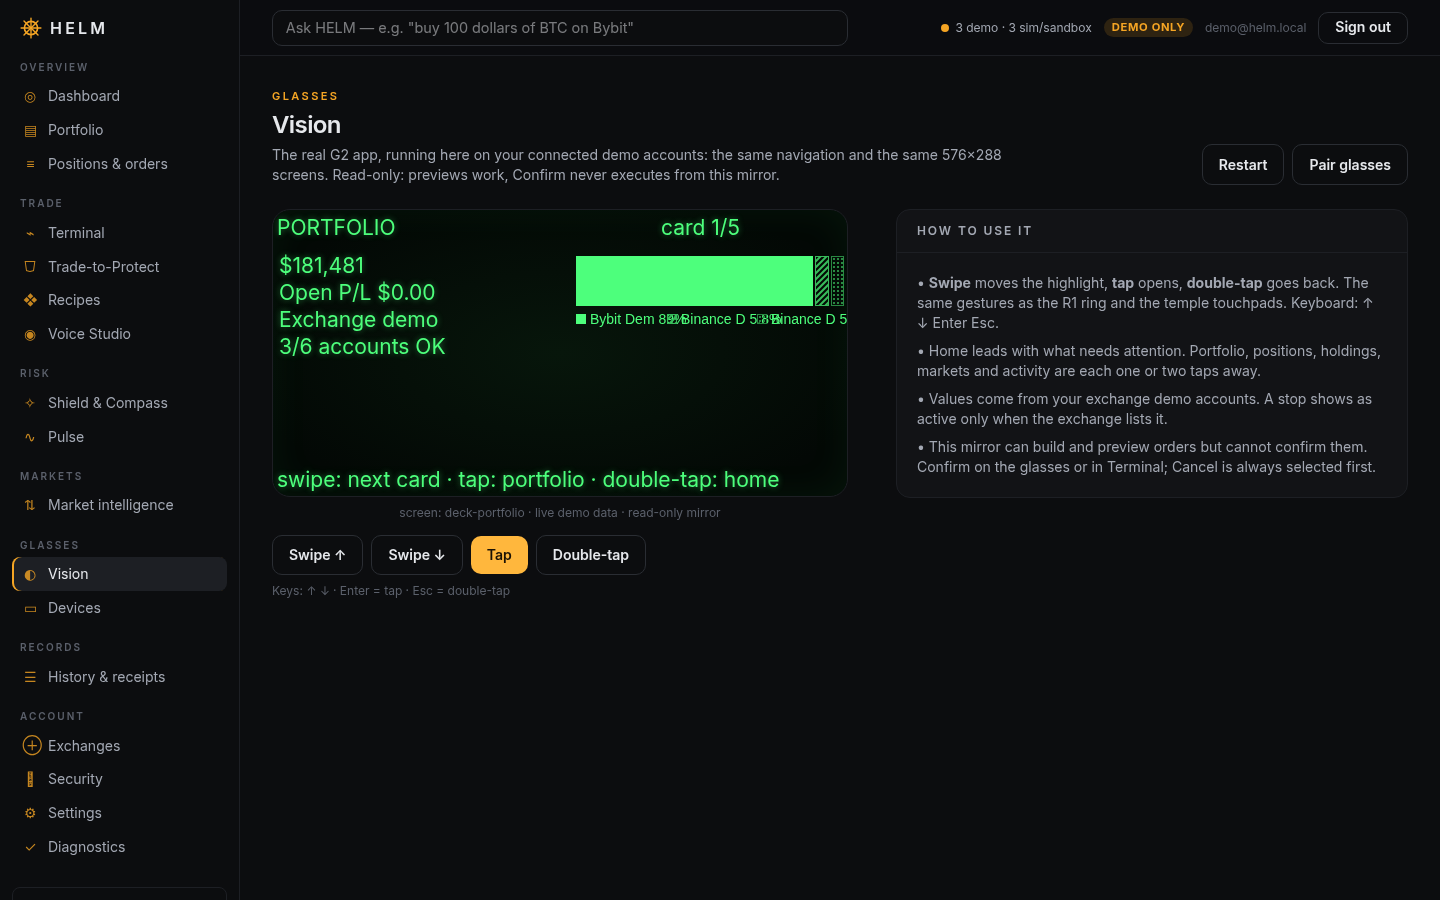
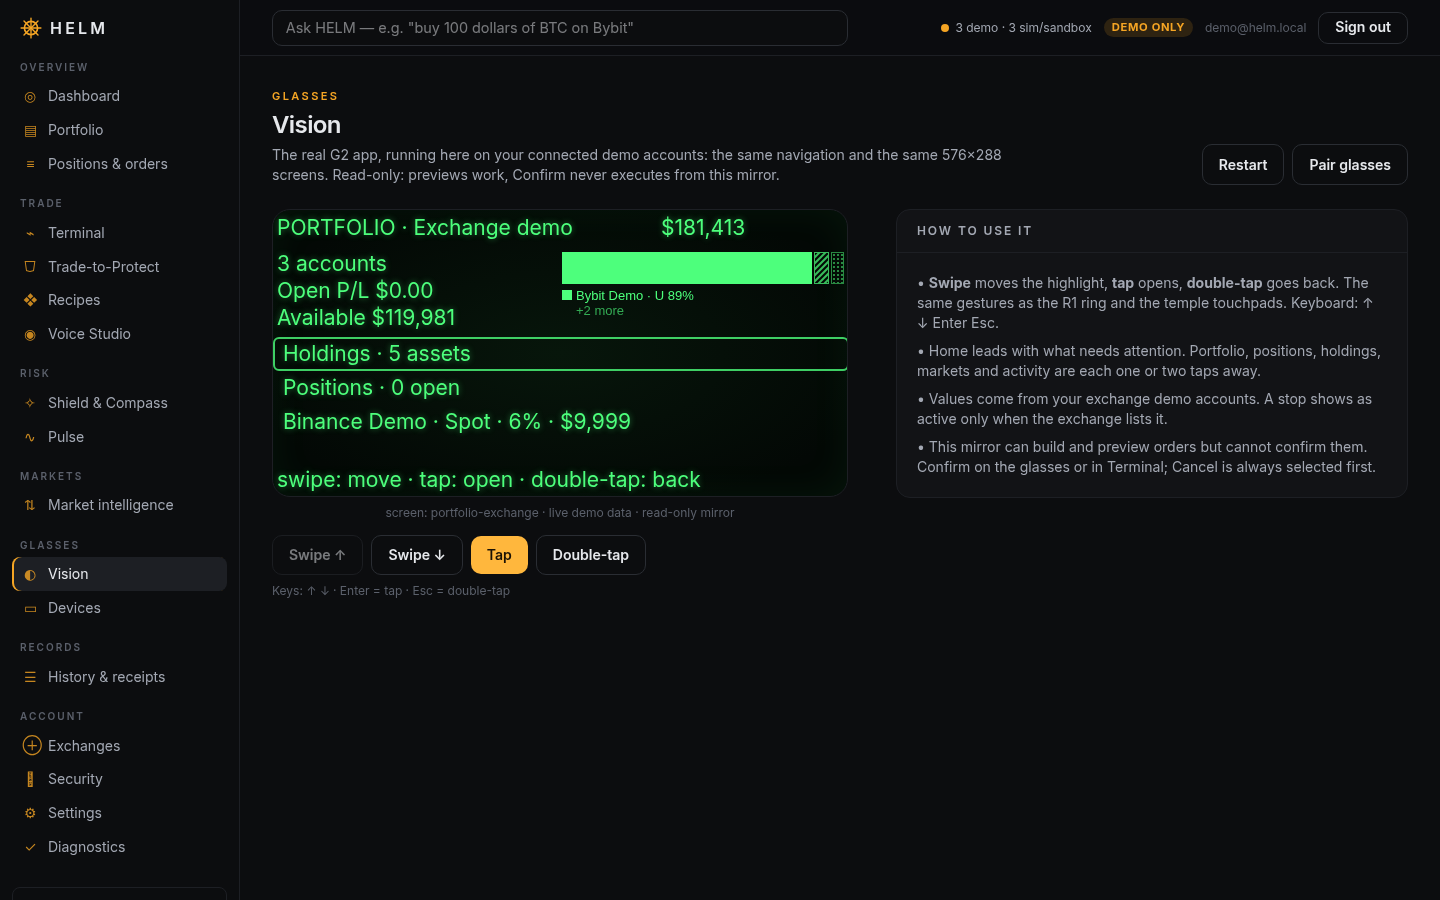
gfx: ribbon legend one line per segment (no overlap, +n more), test; e2e vision row picking uses list rows only

diff --git a/apps/glasses/src/gfx/graphics.ts b/apps/glasses/src/gfx/graphics.ts
@@ -94,15 +94,19 @@ function ribbonOps(g: Extract<Graphic, { kind: 'ribbon' }>, w: number, h: number
     ops.push({ op: 'rect', x, y, w: Math.max(1, sw - 2), h: barH, shade: SHADES[i % SHADES.length]!, style: PATTERNS[i % PATTERNS.length]! })
     x += sw
   })
-  // Legend row: pattern swatch + label + percent (labels never rely on shade alone).
-  const legendY = y + barH + 6
-  const colW = w / Math.min(sh.length, 3)
-  sh.slice(0, 3).forEach((s, i) => {
-    const lx = Math.round(i * colW)
-    ops.push({ op: 'rect', x: lx + 1, y: legendY + 2, w: 10, h: 10, shade: SHADES[i % SHADES.length]!, style: PATTERNS[i % PATTERNS.length]! })
-    ops.push({ op: 'text', x: lx + 15, y: legendY + 12, text: `${s.label.slice(0, 9)} ${fmtPct(s.share * 100)}%`, size: 14, shade: 15, align: 'left' })
+  // Legend: one line per segment (swatch + label + percent), sized to the space left so labels never overlap.
+  // Labels never rely on shade alone; segments that do not fit are summarised as "+n more".
+  const legendY = y + barH + 4, lineH = 15
+  const rows = Math.max(1, Math.floor((h - legendY) / lineH))
+  const maxChars = Math.max(6, Math.floor((w - 16) / 7.4))
+  const shown = sh.length > rows ? rows - 1 : rows
+  sh.slice(0, Math.max(0, shown)).forEach((s, i) => {
+    const ly = legendY + i * lineH
+    const pctTxt = ` ${fmtPct(s.share * 100)}%`
+    ops.push({ op: 'rect', x: 1, y: ly + 2, w: 10, h: 10, shade: SHADES[i % SHADES.length]!, style: PATTERNS[i % PATTERNS.length]! })
+    ops.push({ op: 'text', x: 15, y: ly + 12, text: `${s.label.slice(0, Math.max(3, maxChars - pctTxt.length))}${pctTxt}`, size: 13, shade: 15, align: 'left' })
   })
-  if (sh.length > 3) ops.push({ op: 'text', x: w - 2, y: legendY + 28, text: `+${sh.length - 3} more`, size: 13, shade: 10, align: 'right' })
+  if (sh.length > shown) ops.push({ op: 'text', x: 15, y: legendY + Math.max(0, shown) * lineH + 12, text: `+${sh.length - Math.max(0, shown)} more`, size: 13, shade: 10, align: 'left' })
   return ops
 }
 

diff --git a/apps/glasses/src/ux/ux.test.ts b/apps/glasses/src/ux/ux.test.ts
@@ -27,6 +27,17 @@ const P: PortfolioPayload = {
 }
 
 describe('graphics engine', () => {
+  it('ribbon legend lines never overlap and stay inside the image, with "+n more" when space runs out', () => {
+    for (const [w, h, n] of [[190, 76, 3], [190, 76, 6], [288, 100, 4], [120, 60, 2]] as const) {
+      const ops = layoutGraphic({ kind: 'ribbon', segments: Array.from({ length: n }, (_, i) => ({ label: `Exchange Demo ${i}`, value: 100 - i * 10 })) }, w, h)
+      const texts = ops.filter((o): o is Extract<typeof o, { op: 'text' }> => o.op === 'text')
+      const ys = texts.map(t => t.y)
+      expect(new Set(ys).size).toBe(ys.length)
+      for (const t of texts) { expect(t.y).toBeLessThanOrEqual(h); expect(t.text.length * 7.4 + t.x).toBeLessThanOrEqual(w + 8) }
+      const shownSegments = texts.filter(t => /%$/.test(t.text)).length
+      if (shownSegments < n) expect(texts.some(t => /^\+\d+ more$/.test(t.text))).toBe(true)
+    }
+  })
   it('ribbon proportions are exact and exclude non-positive values', () => {
     const s = ribbonShares([{ label: 'A', value: 600 }, { label: 'B', value: 400 }, { label: 'C', value: -5 }])
     expect(s.map(x => x.share)).toEqual([0.6, 0.4])

diff --git a/apps/companion/e2e/companion.spec.ts b/apps/companion/e2e/companion.spec.ts
@@ -204,7 +204,7 @@ test.describe('signed in as the demo user', () => {
     const g2 = page.getByTestId('vision-g2')
     await expect(g2).toContainText('HELM')
     await expect(g2).toContainText(/Portfolio|Accounts ·/)
-    const rows = (await g2.locator('.absolute > .g2-text').allInnerTexts()).map(r => r.trim())
+    const rows = (await g2.locator('.g2-text.whitespace-nowrap').allInnerTexts()).map(r => r.trim()) // list rows only
     const idx = rows.findIndex(r => /^(Portfolio|Accounts ·)/.test(r))
     for (let i = 0; i < Math.max(0, idx); i++) await page.getByTestId('vision-down').click()
     await page.getByTestId('vision-tap').click()
